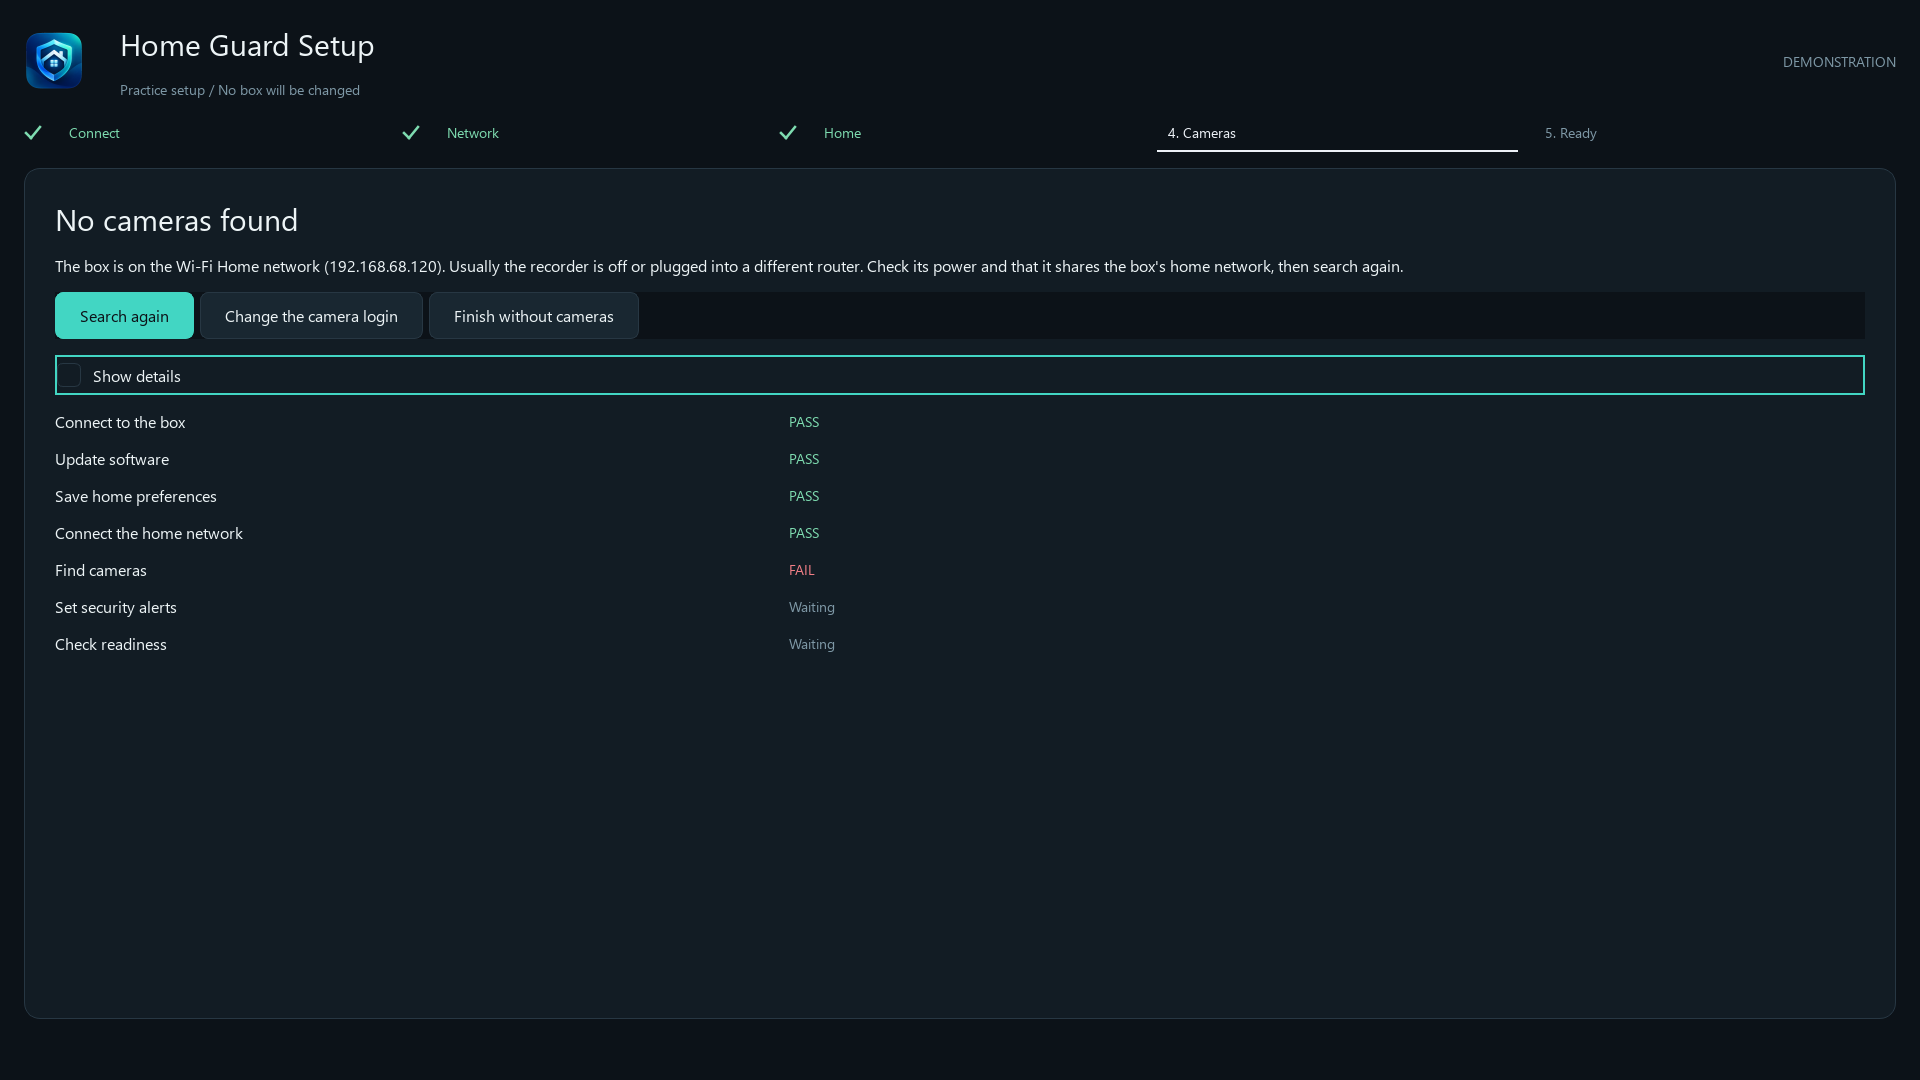
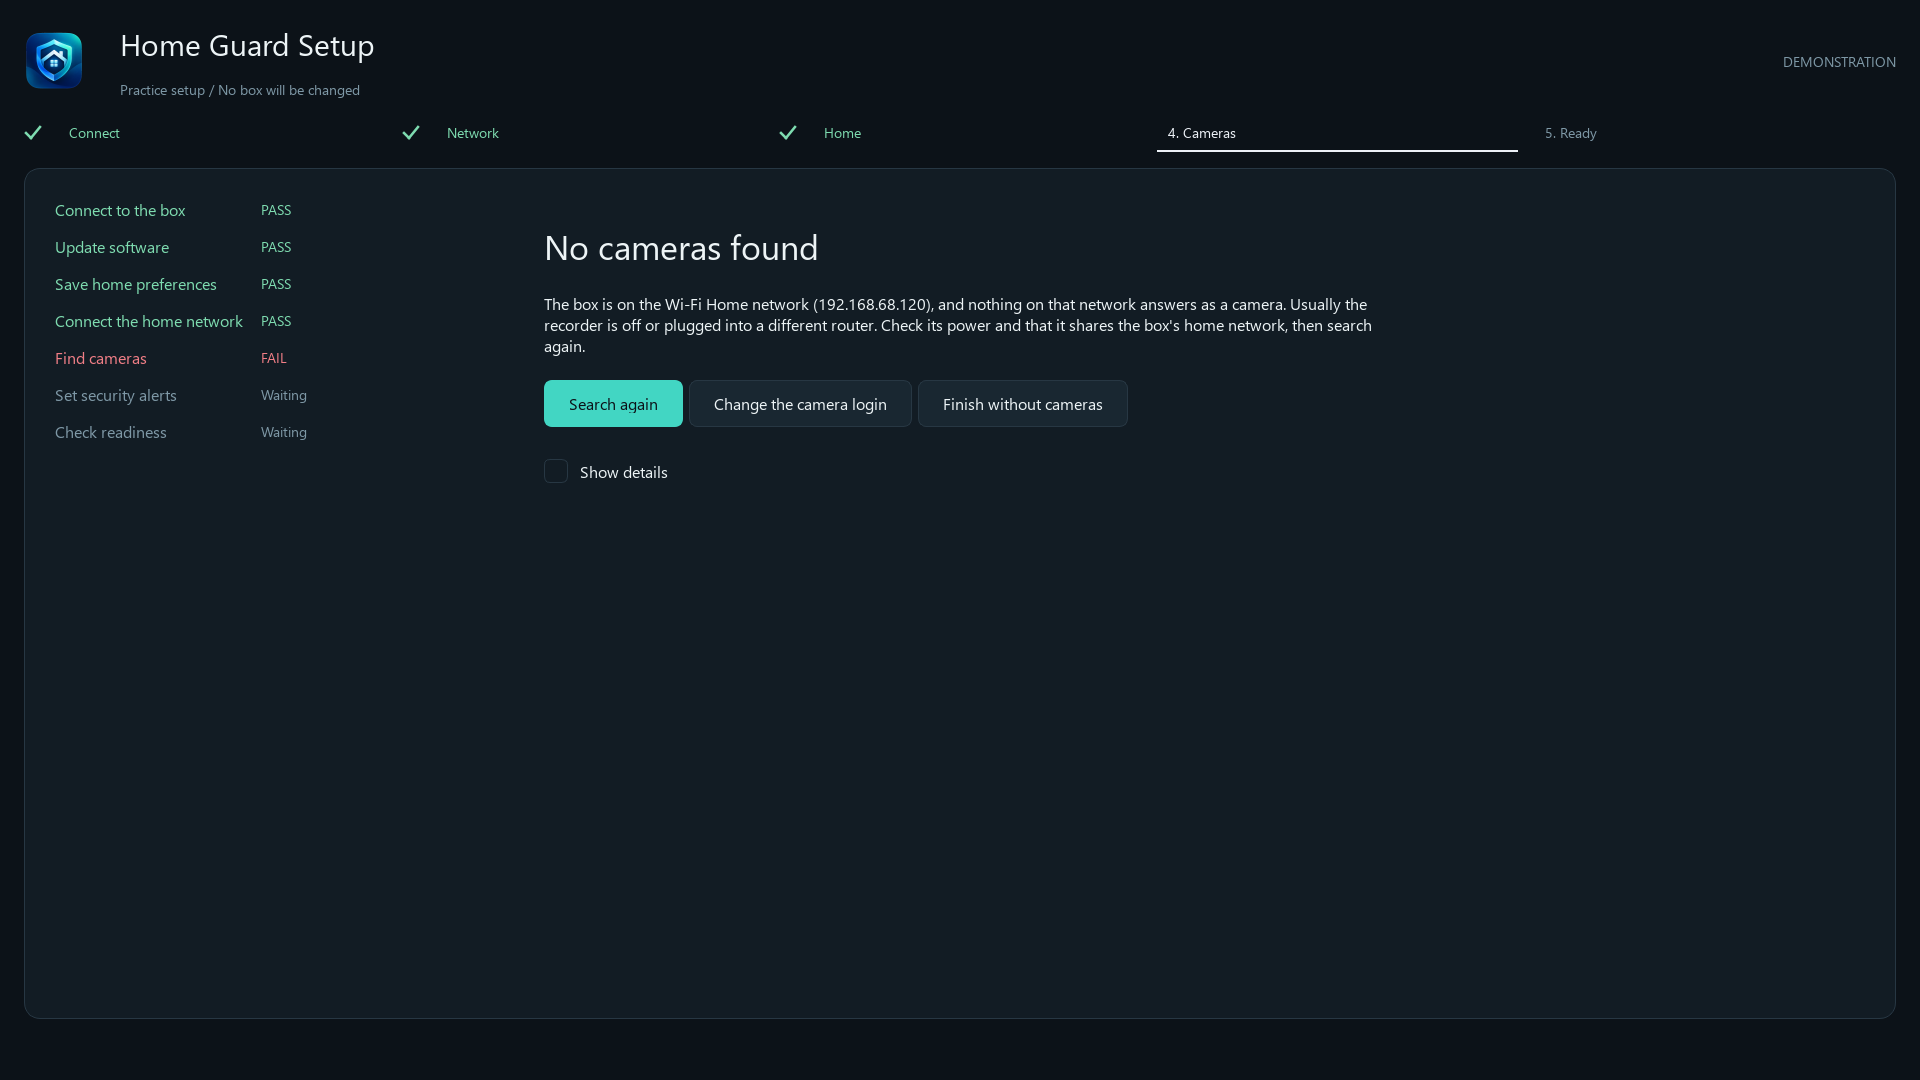
Keep network switching in progress and use valid Qt font sizes

diff --git a/home_guard_project/box/app/ui.py b/home_guard_project/box/app/ui.py
@@ -423,7 +423,6 @@ class Window(QMainWindow):
             state.collecting = self.box_controls.phase() == "running"
             if not state.cameras:
                 state.waiting=0;state.upload=''
-            if scenario == "no-cameras": state.cameras=[]
             self.apply_state(
                 state,
                 demo_settings.show_cameras,
@@ -657,7 +656,9 @@ class Window(QMainWindow):
 
     def stage_action(self):
         if self.box_unreachable:
-            self.box_unreachable=self.args.state=="box-unreachable" if self.args.demo else not Path(bc.BOX_YAML).is_file()
+            if self.args.demo:
+                self.args.state='no-cameras';self.box_unreachable=False
+            else: self.box_unreachable=not Path(bc.BOX_YAML).is_file()
             self.last_poll=0
             self.tick()
         else:
@@ -937,12 +938,14 @@ class Window(QMainWindow):
         self.fail.setVisible(self.args.demo)
         self.page_layouts[3].addWidget(self.fail)
         self.step_rows = []
+        self.engine_step_names=[]
         progress_body = QHBoxLayout()
         progress_steps = QVBoxLayout()
         from .engine_backend import ENGINE_STEPS
         for step in ENGINE_STEPS:
             row = QHBoxLayout()
             name = label(tr("step_"+step))
+            self.engine_step_names.append(name)
             name.setMinimumWidth(190)
             status = label(tr("pending"), "muted")
             row.addWidget(name, 2)
@@ -954,6 +957,11 @@ class Window(QMainWindow):
                 self.camera_search_note.hide()
                 progress_steps.addWidget(self.camera_search_note)
             self.step_rows.append(status)
+            if step == 'network':
+                self.network_progress_note=label('', 'warning')
+                self.network_progress_note.setMaximumWidth(580)
+                self.network_progress_note.hide()
+                progress_steps.addWidget(self.network_progress_note)
         progress_steps.addStretch()
         progress_body.addLayout(progress_steps,1)
         self.setup_details_toggle = QCheckBox(tr("details"))
@@ -969,6 +977,8 @@ class Window(QMainWindow):
         self.setup_cancel.clicked.connect(self.cancel_setup)
         self.page_layouts[4].addWidget(self.setup_cancel)
         self.failure_actions = QWidget()
+        self.failure_actions.setObjectName('failureActions')
+        self.failure_actions.setStyleSheet('QWidget#failureActions { background: transparent; }')
         actions = QHBoxLayout(self.failure_actions)
         actions.setContentsMargins(0,0,0,0)
         self.failure_retry = QPushButton(tr("search_again"))
@@ -984,7 +994,23 @@ class Window(QMainWindow):
         actions.addWidget(self.failure_finish)
         actions.addStretch()
         self.failure_actions.hide()
-        self.page_layouts[4].insertWidget(2,self.failure_actions)
+        self.failure_panel=QWidget()
+        self.failure_panel.setObjectName('failurePanel')
+        self.failure_panel.setStyleSheet('QWidget#failurePanel { background: transparent; }')
+        failure_layout=layout_for(self.failure_panel,24)
+        self.failure_layout=failure_layout
+        failure_layout.setSpacing(24)
+        self.failure_title=label('', 'headline')
+        self.failure_explanation=label('')
+        self.failure_explanation.setMaximumWidth(850)
+        failure_layout.addWidget(self.failure_title)
+        failure_layout.addWidget(self.failure_explanation)
+        failure_layout.addWidget(self.failure_actions)
+        failure_layout.addStretch()
+        progress_body.addWidget(self.failure_panel,3)
+        progress_body.removeWidget(self.setup_details)
+        self.page_layouts[4].addWidget(self.setup_details)
+        self.failure_panel.hide()
         self.setup_details_toggle.setText(tr("show_readable_details"))
         self.summary_house = label("", "section")
         self.page_layouts[5].addWidget(self.summary_house)
@@ -1274,6 +1300,11 @@ class Window(QMainWindow):
         from .setup_failure import FailureFacts
         self.failure_facts=FailureFacts(network=self.run_answers.ssid if self.run_answers.network=="wifi" else "")
         self.failure_actions.hide()
+        self.failure_panel.hide()
+        self.progress_title.show();self.progress_hint.show()
+        self.failure_layout.removeWidget(self.setup_details_toggle)
+        self.page_layouts[4].insertWidget(2,self.setup_details_toggle)
+        self.setup_details.setMaximumHeight(16777215)
         self.setup_cancel.show()
         self.setup_details_toggle.setChecked(False)
         self.camera_retry.capture(self.run_answers)
@@ -1284,9 +1315,11 @@ class Window(QMainWindow):
         from .search_progress import CameraSearch
         self.camera_search=CameraSearch()
         self.camera_search_note.hide()
+        self.network_progress_note.hide()
         self.setup_details.reset()
         for row in self.step_rows:
             row.setText(tr("pending"));row.setStyleSheet("")
+        for name in self.engine_step_names: name.setStyleSheet('color: '+MUTED)
         for item in self.check_labels: item.clear()
         self.setup_cancel.setEnabled(True)
         self.set_page(4)
@@ -1311,7 +1344,7 @@ class Window(QMainWindow):
 
     def present_engine_events(self):
         import queue
-        from .engine_backend import ENGINE_STEPS
+        from .engine_backend import ENGINE_STEPS, is_progress_warning
         while True:
             try: event=self.engine_events.get_nowait()
             except queue.Empty: break
@@ -1329,14 +1362,22 @@ class Window(QMainWindow):
                     self.running_step=index;self.running_since=time.monotonic()
                     row.setText(tr("setup_elapsed",seconds=0))
                     row.setStyleSheet("")
+                    self.engine_step_names[index].setStyleSheet('color: '+ACTION)
+                elif is_progress_warning(event):
+                    self.running_step=index
+                    if not hasattr(self,'running_since'): self.running_since=time.monotonic()
+                    self.network_progress_note.setText(event.text)
+                    self.network_progress_note.show()
                 else:
                     self.running_step=None
+                    if event.step=='network': self.network_progress_note.hide()
                     if event.step == "cameras":
                         self.camera_search.finish()
                         self.camera_search_note.hide()
                     status={"ok":"PASS","warn":"WARN","fail":"FAIL","skip":"step_skip"}[event.status]
                     row.setText(tr(status)+tr("separator")+event.text)
                     row.setStyleSheet("color: "+(ERROR if event.status=="fail" else WARNING if event.status in ("warn","skip") else OK))
+                    self.engine_step_names[index].setStyleSheet('color: '+(ERROR if event.status=='fail' else WARNING if event.status in ('warn','skip') else OK))
                     if event.status=="fail":
                         self.engine_failed_step=event.step
                         if event.step == "cameras":
@@ -1378,16 +1419,25 @@ class Window(QMainWindow):
             self.update_step_bar(OWNERS.get(self.engine_failed_step,0))
             title,explanation=self.failure_facts.content(self.engine_failed_step)
             self.progress_title.setObjectName("headline")
+            self.progress_title.style().unpolish(self.progress_title);self.progress_title.style().polish(self.progress_title)
             self.progress_title.setText(title)
             self.progress_hint.setObjectName("")
             self.progress_hint.setStyleSheet("")
             self.progress_hint.setText(explanation)
+            self.failure_title.setText(title)
+            self.failure_explanation.setText(explanation)
+            self.progress_title.hide();self.progress_hint.hide()
+            self.failure_panel.show()
+            self.page_layouts[4].removeWidget(self.setup_details_toggle)
+            self.failure_layout.insertWidget(3,self.setup_details_toggle)
             self.setup_cancel.hide()
             self.failure_actions.show()
             cameras=self.engine_failed_step=="cameras"
             self.failure_retry.setText(tr("search_again" if cameras else "retry_setup_action"))
             self.failure_login.setVisible(cameras)
             self.failure_finish.setVisible(cameras)
+            self.failure_retry.setFocus()
+            self.setup_details.setMaximumHeight(230)
             self.setup_details_toggle.setChecked(False)
             from .engine_backend import ENGINE_STEPS
             for step,row in zip(ENGINE_STEPS,self.step_rows):

diff --git a/tests/box/test_network_progress.py b/tests/box/test_network_progress.py
@@ -1,0 +1,49 @@
+import io
+import tempfile
+import unittest
+from pathlib import Path
+from home_guard_project.box.app.backend import Answers
+from home_guard_project.box.app.engine_backend import EngineBackend,OutputParser,is_progress_warning
+from home_guard_project.box.app.setup_details import DetailsModel
+
+WARN="@@step network warn The box is switching to ameer2; the connection will drop for up to a minute"
+
+class Process:
+    def __init__(self,text): self.stdout=io.StringIO(text)
+    def wait(self,timeout=None): return 0
+class Runner:
+    def __init__(self,text): self.process=Process(text)
+    def spawn(self,args): return self.process
+    def stop(self,process): pass
+
+class ProgressTests(unittest.TestCase):
+    def test_switch_warning_is_running_until_ok(self):
+        parser=OutputParser();model=DetailsModel()
+        model.feed(parser.parse('@@step network start'))
+        event=parser.parse(WARN);self.assertTrue(is_progress_warning(event))
+        model.feed(event)
+        self.assertEqual(model.groups['network'].status,'start')
+        self.assertIn(('warning',event.text),model.groups['network'].messages)
+        model.feed(parser.parse('@@step network ok Home network is ready'))
+        self.assertEqual(model.groups['network'].status,'ok')
+        self.assertEqual(model.groups['network'].result,'Home network is ready')
+
+    def test_full_recording_completes_with_warning_then_ok(self):
+        recording=Path(__file__).with_name('fixtures').joinpath('setup_engine_success.txt').read_text()
+        recording=recording.replace('@@step network start','@@step network start\n'+WARN)
+        with tempfile.TemporaryDirectory() as directory:
+            script=Path(directory)/'engine.ps1';script.touch()
+            self.assertTrue(EngineBackend(Runner(recording),script,'powershell').run(Answers(),lambda e:None))
+
+    def test_switch_warning_cannot_complete_network_without_ok(self):
+        recording=Path(__file__).with_name('fixtures').joinpath('setup_engine_success.txt').read_text()
+        recording='\n'.join(WARN if line.startswith('@@step network ok') else line for line in recording.splitlines())
+        with tempfile.TemporaryDirectory() as directory:
+            script=Path(directory)/'engine.ps1';script.touch()
+            self.assertFalse(EngineBackend(Runner(recording),script,'powershell').run(Answers(),lambda e:None))
+
+    def test_terminal_warning_stays_a_warning(self):
+        event=OutputParser().parse('@@step update warn Software was already current')
+        self.assertFalse(is_progress_warning(event))
+        model=DetailsModel();model.feed(event)
+        self.assertEqual(model.groups['update'].status,'warn')

diff --git a/tests/box/test_app_startup.py b/tests/box/test_app_startup.py
@@ -1,0 +1,41 @@
+"""Subprocess proof: the designed states start without Qt warnings or hardware."""
+import os
+import subprocess
+import sys
+import tempfile
+import unittest
+from pathlib import Path
+from home_guard_project.box.app.theme import stylesheet
+
+class StartupTests(unittest.TestCase):
+    def test_theme_never_sets_pixel_font_with_negative_point_size(self):
+        for theme in ('dark','light'):
+            self.assertNotRegex(stylesheet(theme),r'font-size:\s*[\d.]+px')
+            self.assertIn('font-size: 12pt',stylesheet(theme))
+
+    def test_screenshots_start_with_empty_stderr(self):
+        env=os.environ.copy();env.pop('VIRTUAL_ENV',None);env['QT_QPA_PLATFORM']='offscreen'
+        screens=(['--state','no-cameras'],['--state','box-unreachable'],['--setup','--page','failure','--fail','cameras'],['--setup','--page','failure','--fail','network'])
+        with tempfile.TemporaryDirectory() as directory:
+            for i,args in enumerate(screens):
+                with self.subTest(screen=args):
+                    path=Path(directory)/f'{i}.png'
+                    result=subprocess.run([sys.executable,'-m','home_guard_project.box.app','--demo',*args,'--screenshot',str(path)],env=env,stdout=subprocess.PIPE,stderr=subprocess.PIPE,text=True,timeout=30)
+                    self.assertEqual(result.returncode,0,result.stderr)
+                    self.assertEqual(result.stderr,'')
+                    self.assertTrue(path.is_file())
+
+    def test_styled_qt_fonts_keep_valid_point_sizes(self):
+        env=os.environ.copy();env.pop('VIRTUAL_ENV',None);env['QT_QPA_PLATFORM']='offscreen'
+        code='''from PySide6.QtWidgets import QApplication,QWidget,QLabel,QComboBox,QTextEdit,QVBoxLayout
+from home_guard_project.box.app.theme import stylesheet
+app=QApplication([])
+root=QWidget();root.setStyleSheet(stylesheet());layout=QVBoxLayout(root)
+for kind in (QLabel,QComboBox,QTextEdit): layout.addWidget(kind())
+root.show();app.processEvents()
+for widget in root.findChildren(QWidget):
+    assert widget.font().pointSizeF()>0, (type(widget).__name__,widget.font().pointSizeF())
+'''
+        result=subprocess.run([sys.executable,'-c',code],env=env,stdout=subprocess.PIPE,stderr=subprocess.PIPE,text=True,timeout=30)
+        self.assertEqual(result.returncode,0,result.stderr)
+        self.assertEqual(result.stderr,'')

diff --git a/home_guard_project/box/app/theme.py b/home_guard_project/box/app/theme.py
@@ -1,5 +1,6 @@
 """All visual tokens and application control styles."""
 from pathlib import Path
+import re
 PALETTES={
  'dark':dict(bg='#0c1218',surface='#121c24',raised='#192731',border='#273743',text='#edf4f6',secondary='#b5c8d1',muted='#7e98a6',action='#42d6c3',ok='#7edcb0',error='#f17e86',warning='#e2ba76',bubble='#143330'),
  'light':dict(bg='#edf3f4',surface='#ffffff',raised='#e4eef0',border='#ccdadd',text='#182d37',secondary='#405f6e',muted='#5c7987',action='#087c73',ok='#16784c',error='#b83748',warning='#966917',bubble='#d7ece7')}
@@ -60,4 +61,7 @@ QProgressBar::chunk { background: @action; border-radius: 4px; }
 QToolTip { background: @raised; color: @text; border: 1px solid @border; padding: 8px; }
 """
     for name,value in dict(t,check=check,upArrow=(Path(__file__).parent/'assets/icons/chevron-up.svg').as_posix(),downArrow=(Path(__file__).parent/'assets/icons/chevron-down.svg').as_posix()).items(): sheet=sheet.replace('@'+name,value)
-    return sheet
+    # A pixel-sized QFont has pointSize() == -1. Qt's native/rich-text paths
+    # sometimes copy that sentinel into setPointSize(), producing a warning.
+    # Keep the same 96-DPI type scale, with positive point sizes throughout.
+    return re.sub(r'font-size:\s*(\d+(?:\.\d+)?)px',lambda m:'font-size: '+format(float(m[1])* .75,'g')+'pt',sheet)

diff --git a/home_guard_project/box/app/engine_backend.py b/home_guard_project/box/app/engine_backend.py
@@ -15,6 +15,9 @@ from .strings import tr
 ENGINE_STEPS = ('connect','update','site','network','cameras','alerts','readiness')
 OWNERS = {'connect':0,'update':0,'site':2,'network':1,'cameras':3,'alerts':2,'readiness':0}
 
+def is_progress_warning(event):
+    return event.kind=='step' and event.step=='network' and event.status=='warn' and 'switching' in event.text.lower()
+
 @dataclass(frozen=True)
 class Event:
     kind: str
@@ -110,7 +113,7 @@ class EngineBackend:
                                 if len(completed)>=len(ENGINE_STEPS) or event.step!=ENGINE_STEPS[len(completed)]:
                                     emit(Event('step',running,'fail',tr('engine_protocol_error')));failed=True;break
                             elif event.status in ('ok','warn','skip'):
-                                if event.step not in completed: completed.append(event.step)
+                                if not is_progress_warning(event) and event.step not in completed: completed.append(event.step)
                             elif event.status=='fail': failed=True
                         if event.kind=='check' and event.status=='FAIL': failed=True
                         if event.kind=='done':

diff --git a/home_guard_project/box/app/setup_details_ui.py b/home_guard_project/box/app/setup_details_ui.py
@@ -22,7 +22,7 @@ class DetailsPanel(QWidget):
         self.readable=label('');self.readable.setAlignment(__import__('PySide6.QtCore',fromlist=['Qt']).Qt.AlignmentFlag.AlignTop)
         scroll=QScrollArea();scroll.setWidgetResizable(True);scroll.setWidget(self.readable)
         self.readable_scroll=scroll;layout.addWidget(scroll,1)
-        self.raw=QTextEdit();self.raw.setReadOnly(True);self.raw.setStyleSheet("font-family: Consolas; font-size: 12px;");layout.addWidget(self.raw,1)
+        self.raw=QTextEdit();self.raw.setReadOnly(True);self.raw.setStyleSheet("font-family: Consolas; font-size: 10.5pt;");layout.addWidget(self.raw,1)
         self.setMinimumHeight(180);self.setMaximumHeight(16777215)
         self.reset()
     def reset(self):

diff --git a/home_guard_project/box/app/setup_failure.py b/home_guard_project/box/app/setup_failure.py
@@ -6,10 +6,10 @@ from .strings import tr
 def network_facts(line):
     # Retain only explicitly identified box/network facts, never camera addresses.
     facts = {}
-    if re.search(r'box|wi-fi|wifi|ipv4|ip address', line, re.I):
+    if re.search(r'box|wi-fi|wifi|ssid|ipv4|ip address|local_ip', line, re.I):
         address = re.search(r'(?<![\w.])(?:\d{1,3}\.){3}\d{1,3}(?![\w.])', line)
         if address: facts['address'] = address[0]
-    name = re.search(r'(?:wi-fi|wifi|ssid)\s*(?:[:=]|is|on|to)?\s*[\"\']([^\"\']+)', line, re.I)
+    name = re.search(r'(?:wi-fi|wifi|ssid)[\"\']?\s*(?:[:=]|is|on|to)?\s*[\"\']([^\"\']+)', line, re.I)
     if name: facts['network'] = name[1]
     return facts
 

diff --git a/home_guard_project/box/app/setup_details.py b/home_guard_project/box/app/setup_details.py
@@ -41,7 +41,8 @@ class DetailsModel:
     def feed(self,event):
         if event.kind=='step':
             self.current=event.step
-            group=self.groups[event.step];group.status=event.status;group.result=event.text
+            from .engine_backend import is_progress_warning
+            group=self.groups[event.step];group.status='start' if is_progress_warning(event) else event.status;group.result=event.text
             self.raw.append('@@step '+event.step+' '+event.status+(' '+event.text if event.text else ''))
             if event.text:
                 message=('error' if event.status=='fail' else 'warning' if event.status=='warn' else 'muted',event.text)

diff --git a/home_guard_project/box/app/camera_ui.py b/home_guard_project/box/app/camera_ui.py
@@ -54,7 +54,7 @@ class CameraPage:
         self.error_details=QTextEdit()
         self.error_details.setReadOnly(True)
         self.error_details.setMaximumHeight(145)
-        self.error_details.setStyleSheet("font-family: Consolas; font-size: 12px;")
+        self.error_details.setStyleSheet("font-family: Consolas; font-size: 10.5pt;")
         self.error_details.hide()
         self.details_toggle.toggled.connect(self.error_details.setVisible)
         outer.addWidget(self.error_details)
